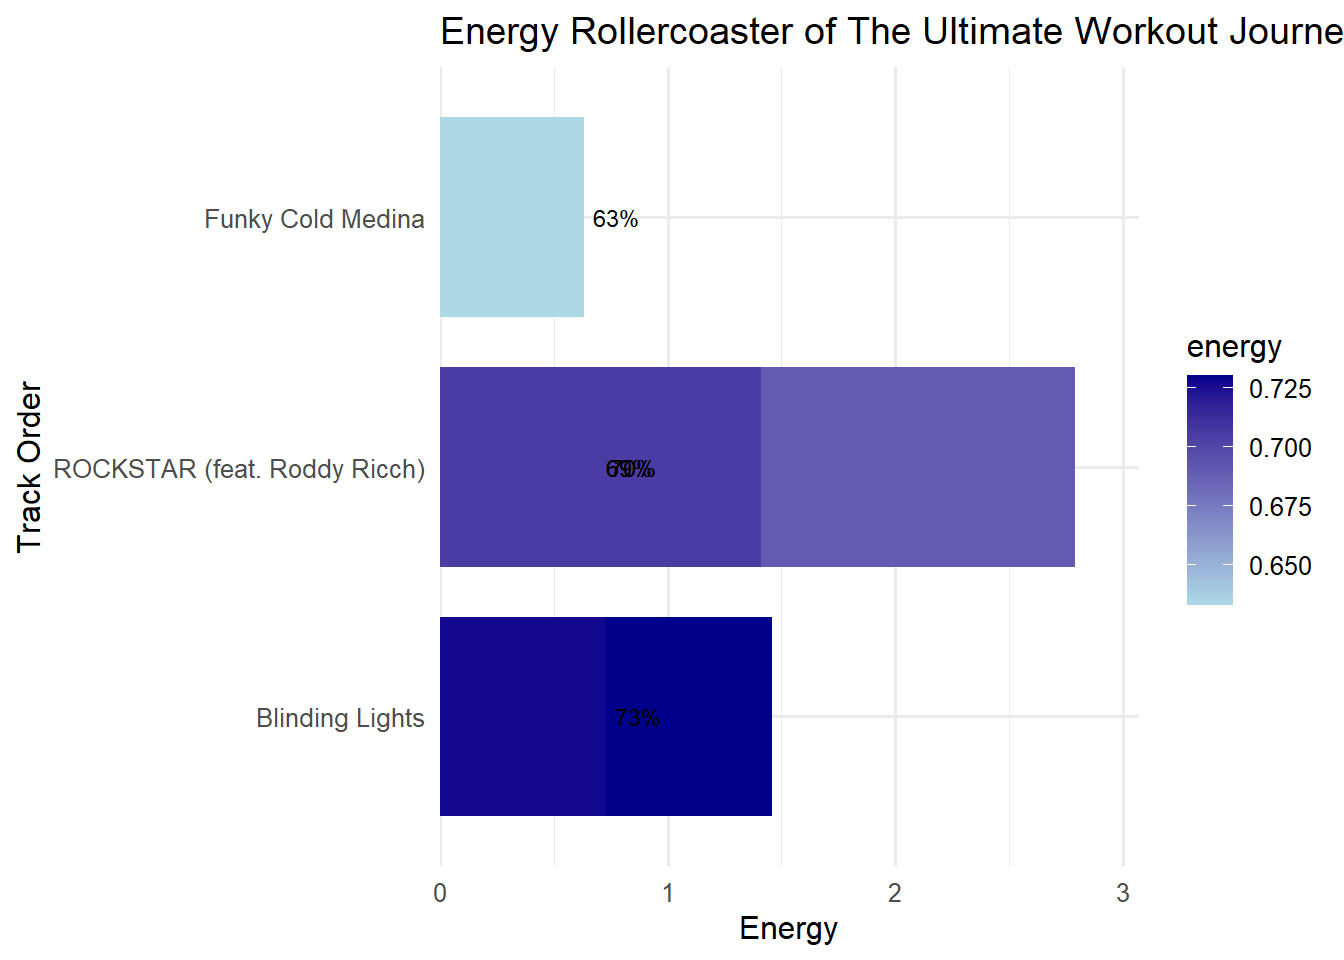
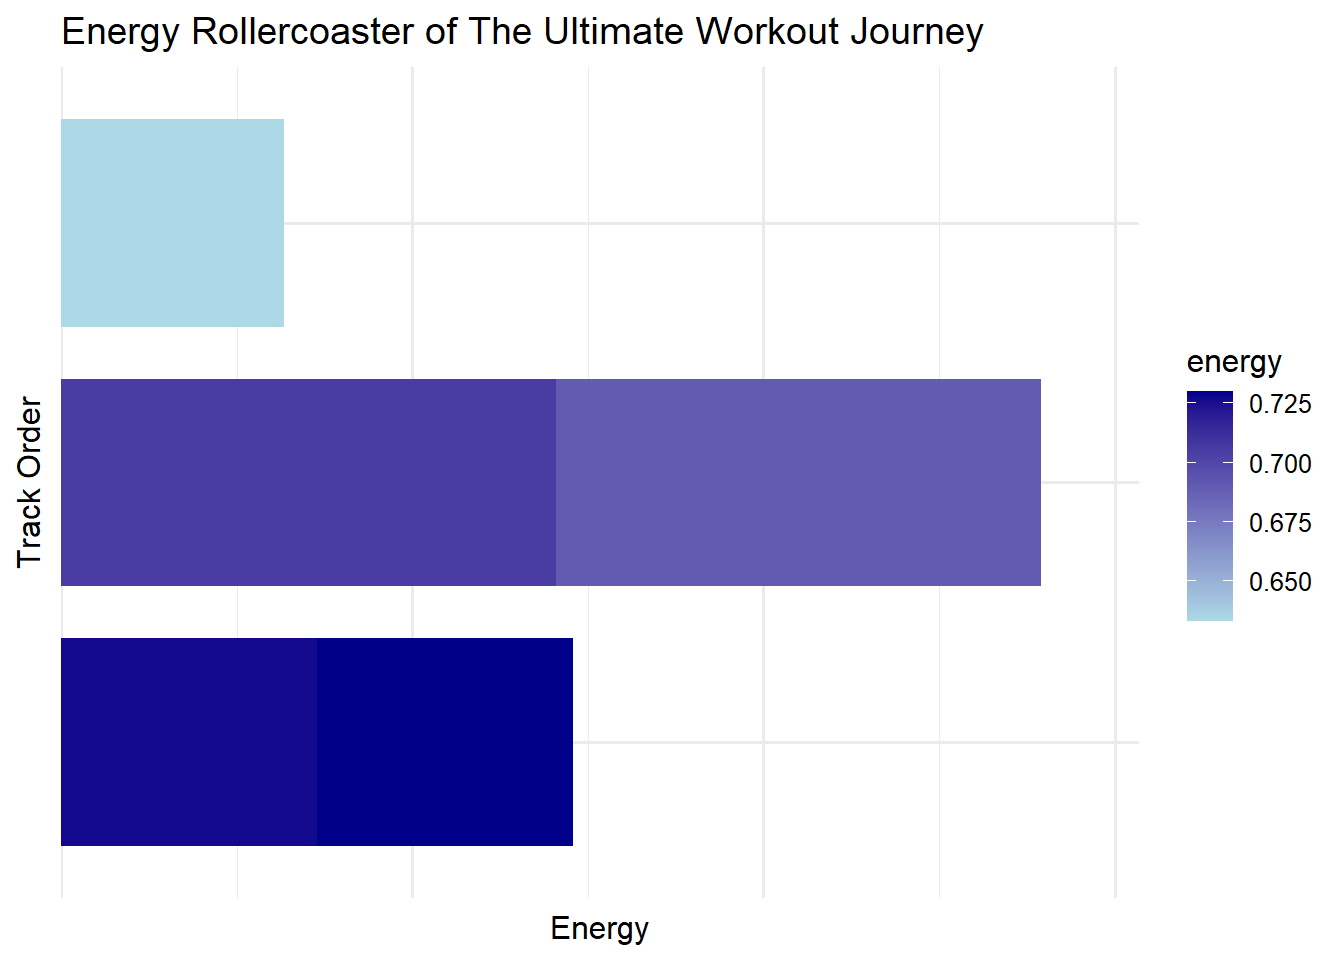
UPDATE

diff --git a/docs/mp03.html b/docs/mp03.html
@@ -1197,11 +1197,7 @@ pre > code.sourceCode > span > a:first-child::before { text-decoration: underlin
 <span id="cb21-13"><a href="#cb21-13" aria-hidden="true" tabindex="-1"></a>    <span class="at">y =</span> <span class="st">"Energy"</span></span>
 <span id="cb21-14"><a href="#cb21-14" aria-hidden="true" tabindex="-1"></a>  ) <span class="sc">+</span></span>
 <span id="cb21-15"><a href="#cb21-15" aria-hidden="true" tabindex="-1"></a>  <span class="fu">theme_minimal</span>(<span class="at">base_size =</span> <span class="dv">12</span>) <span class="sc">+</span></span>
-<span id="cb21-16"><a href="#cb21-16" aria-hidden="true" tabindex="-1"></a>  <span class="fu">geom_text</span>(</span>
-<span id="cb21-17"><a href="#cb21-17" aria-hidden="true" tabindex="-1"></a>    <span class="fu">aes</span>(<span class="at">label =</span> scales<span class="sc">::</span><span class="fu">percent</span>(energy, <span class="at">accuracy =</span> <span class="dv">1</span>)),</span>
-<span id="cb21-18"><a href="#cb21-18" aria-hidden="true" tabindex="-1"></a>    <span class="at">hjust =</span> <span class="sc">-</span><span class="fl">0.2</span>,</span>
-<span id="cb21-19"><a href="#cb21-19" aria-hidden="true" tabindex="-1"></a>    <span class="at">size =</span> <span class="dv">3</span></span>
-<span id="cb21-20"><a href="#cb21-20" aria-hidden="true" tabindex="-1"></a>  )</span></code><button title="Copy to Clipboard" class="code-copy-button"><i class="bi"></i></button></pre></div>
+<span id="cb21-16"><a href="#cb21-16" aria-hidden="true" tabindex="-1"></a>  <span class="fu">theme</span>(<span class="at">axis.text =</span> <span class="fu">element_blank</span>())  </span></code><button title="Copy to Clipboard" class="code-copy-button"><i class="bi"></i></button></pre></div>
 </details>
 <div class="cell-output-display">
 <div>
